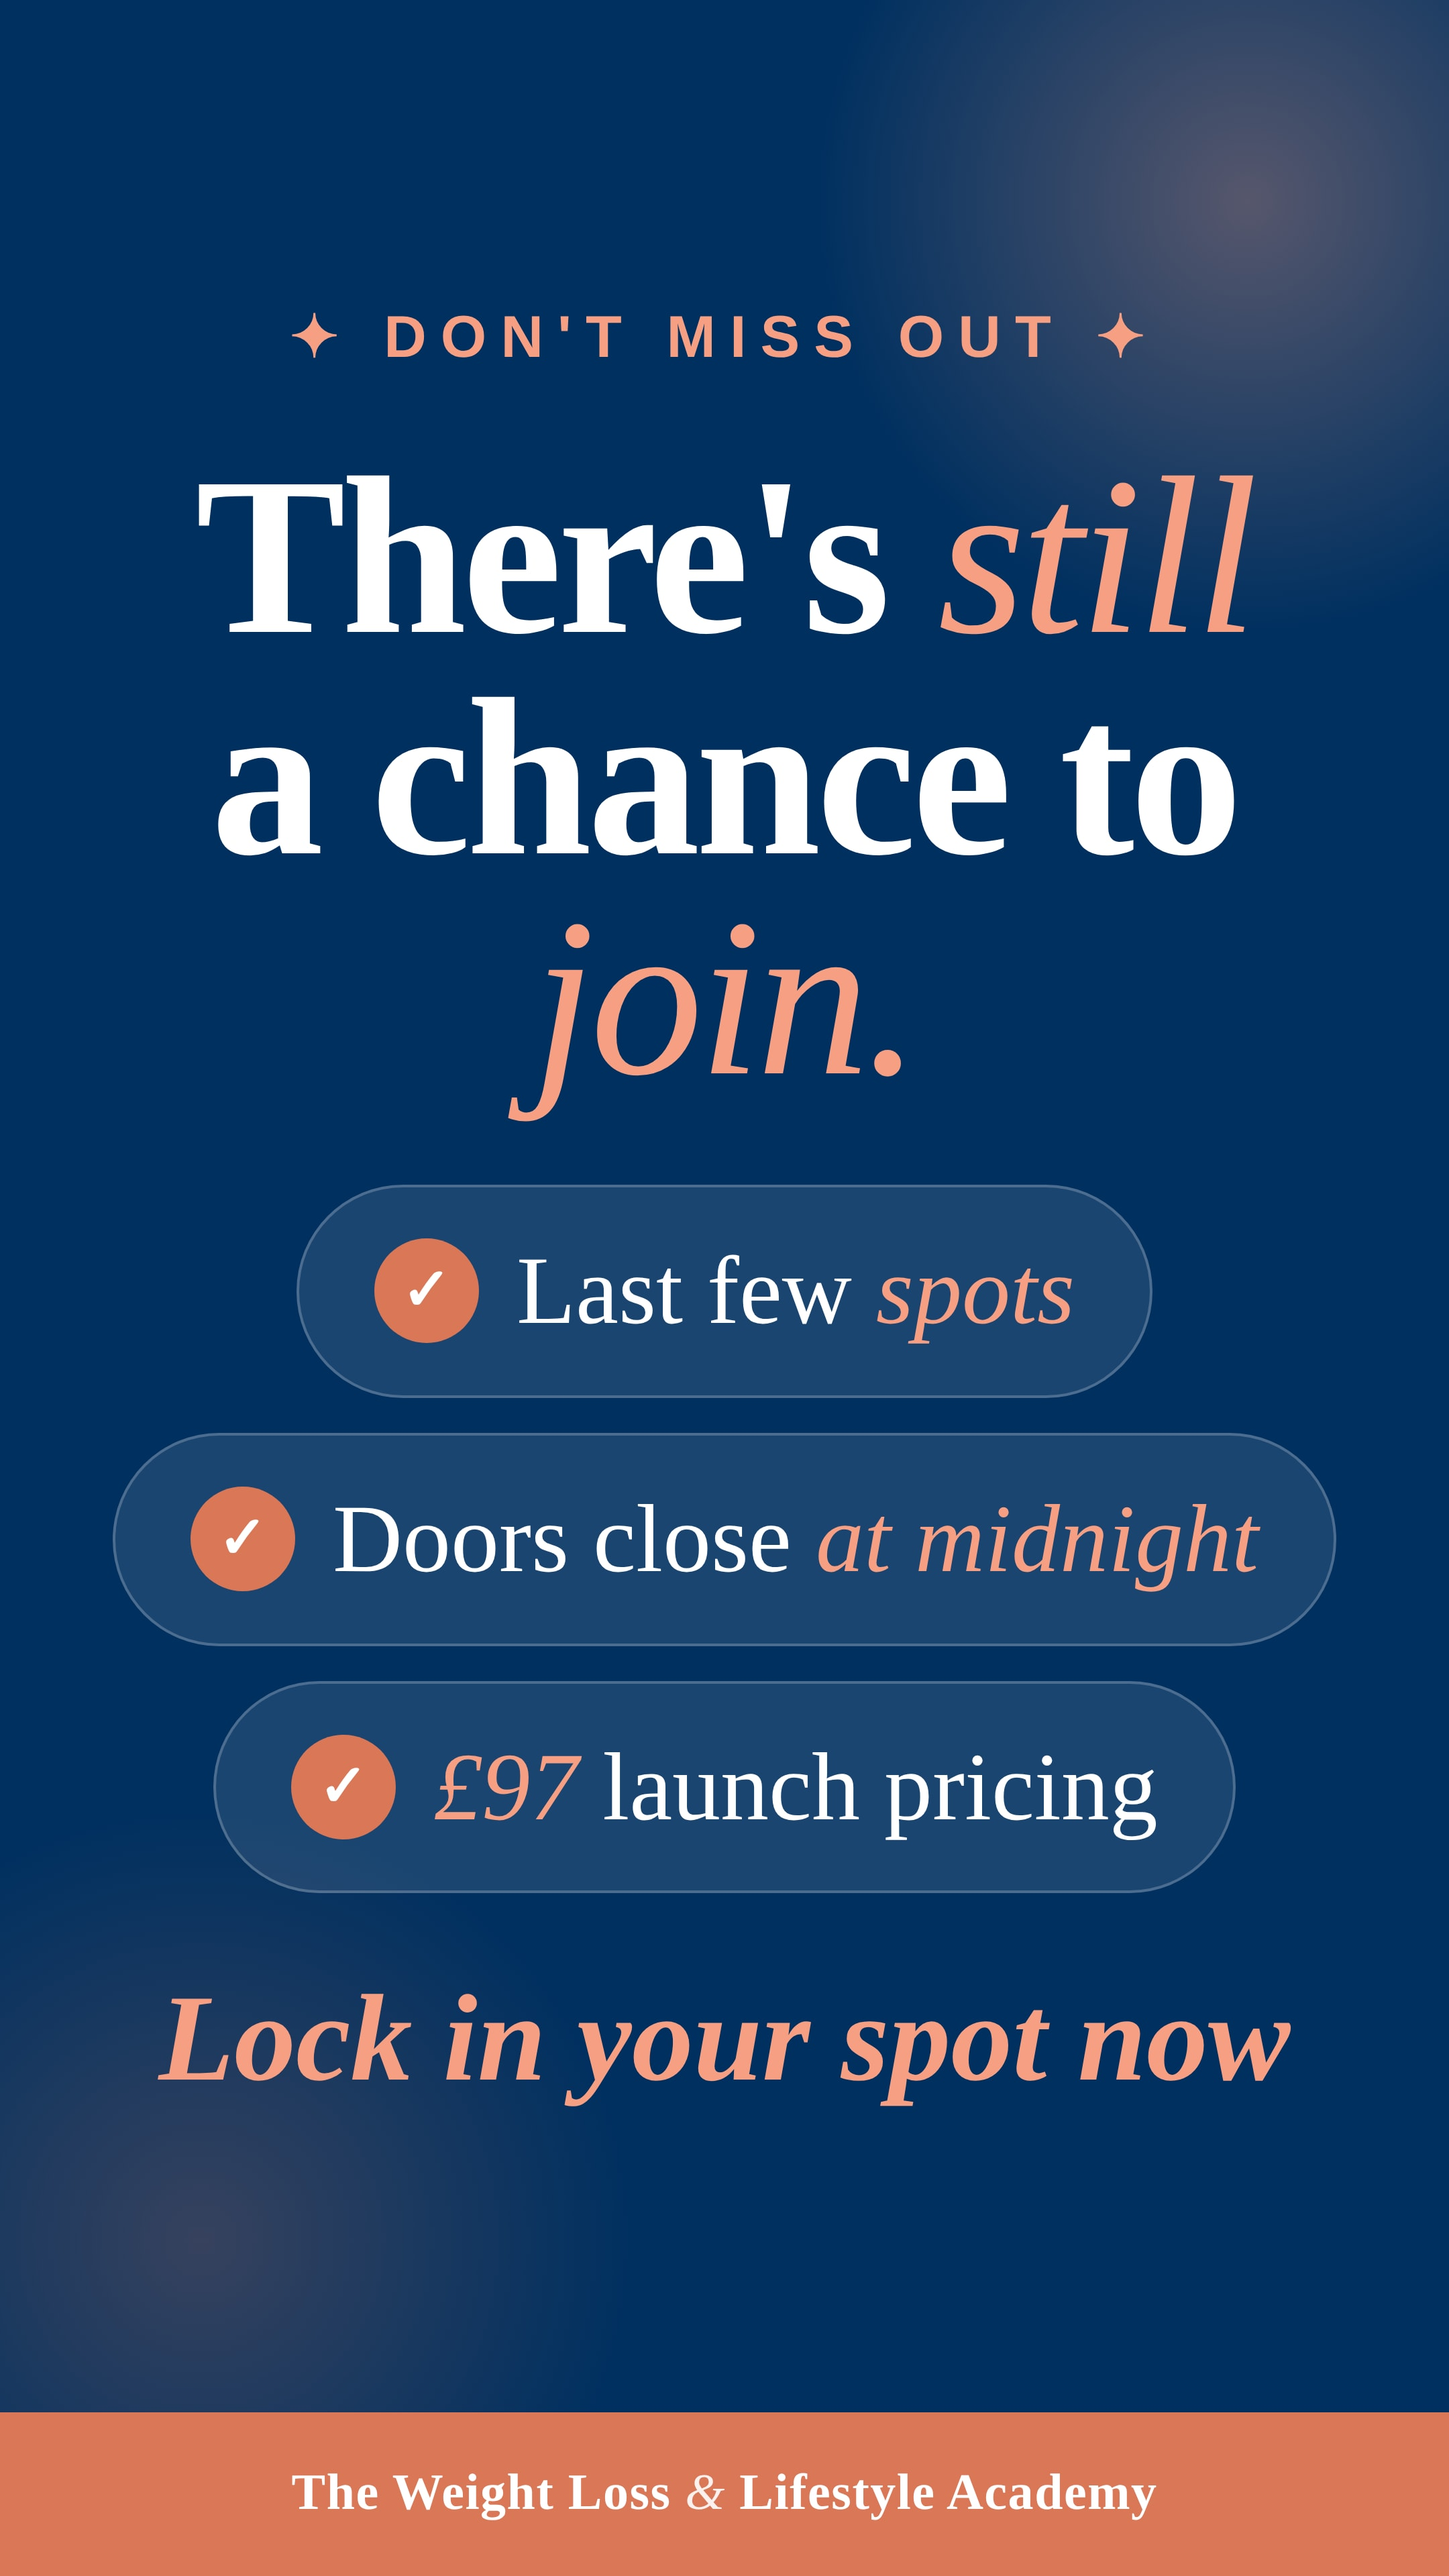
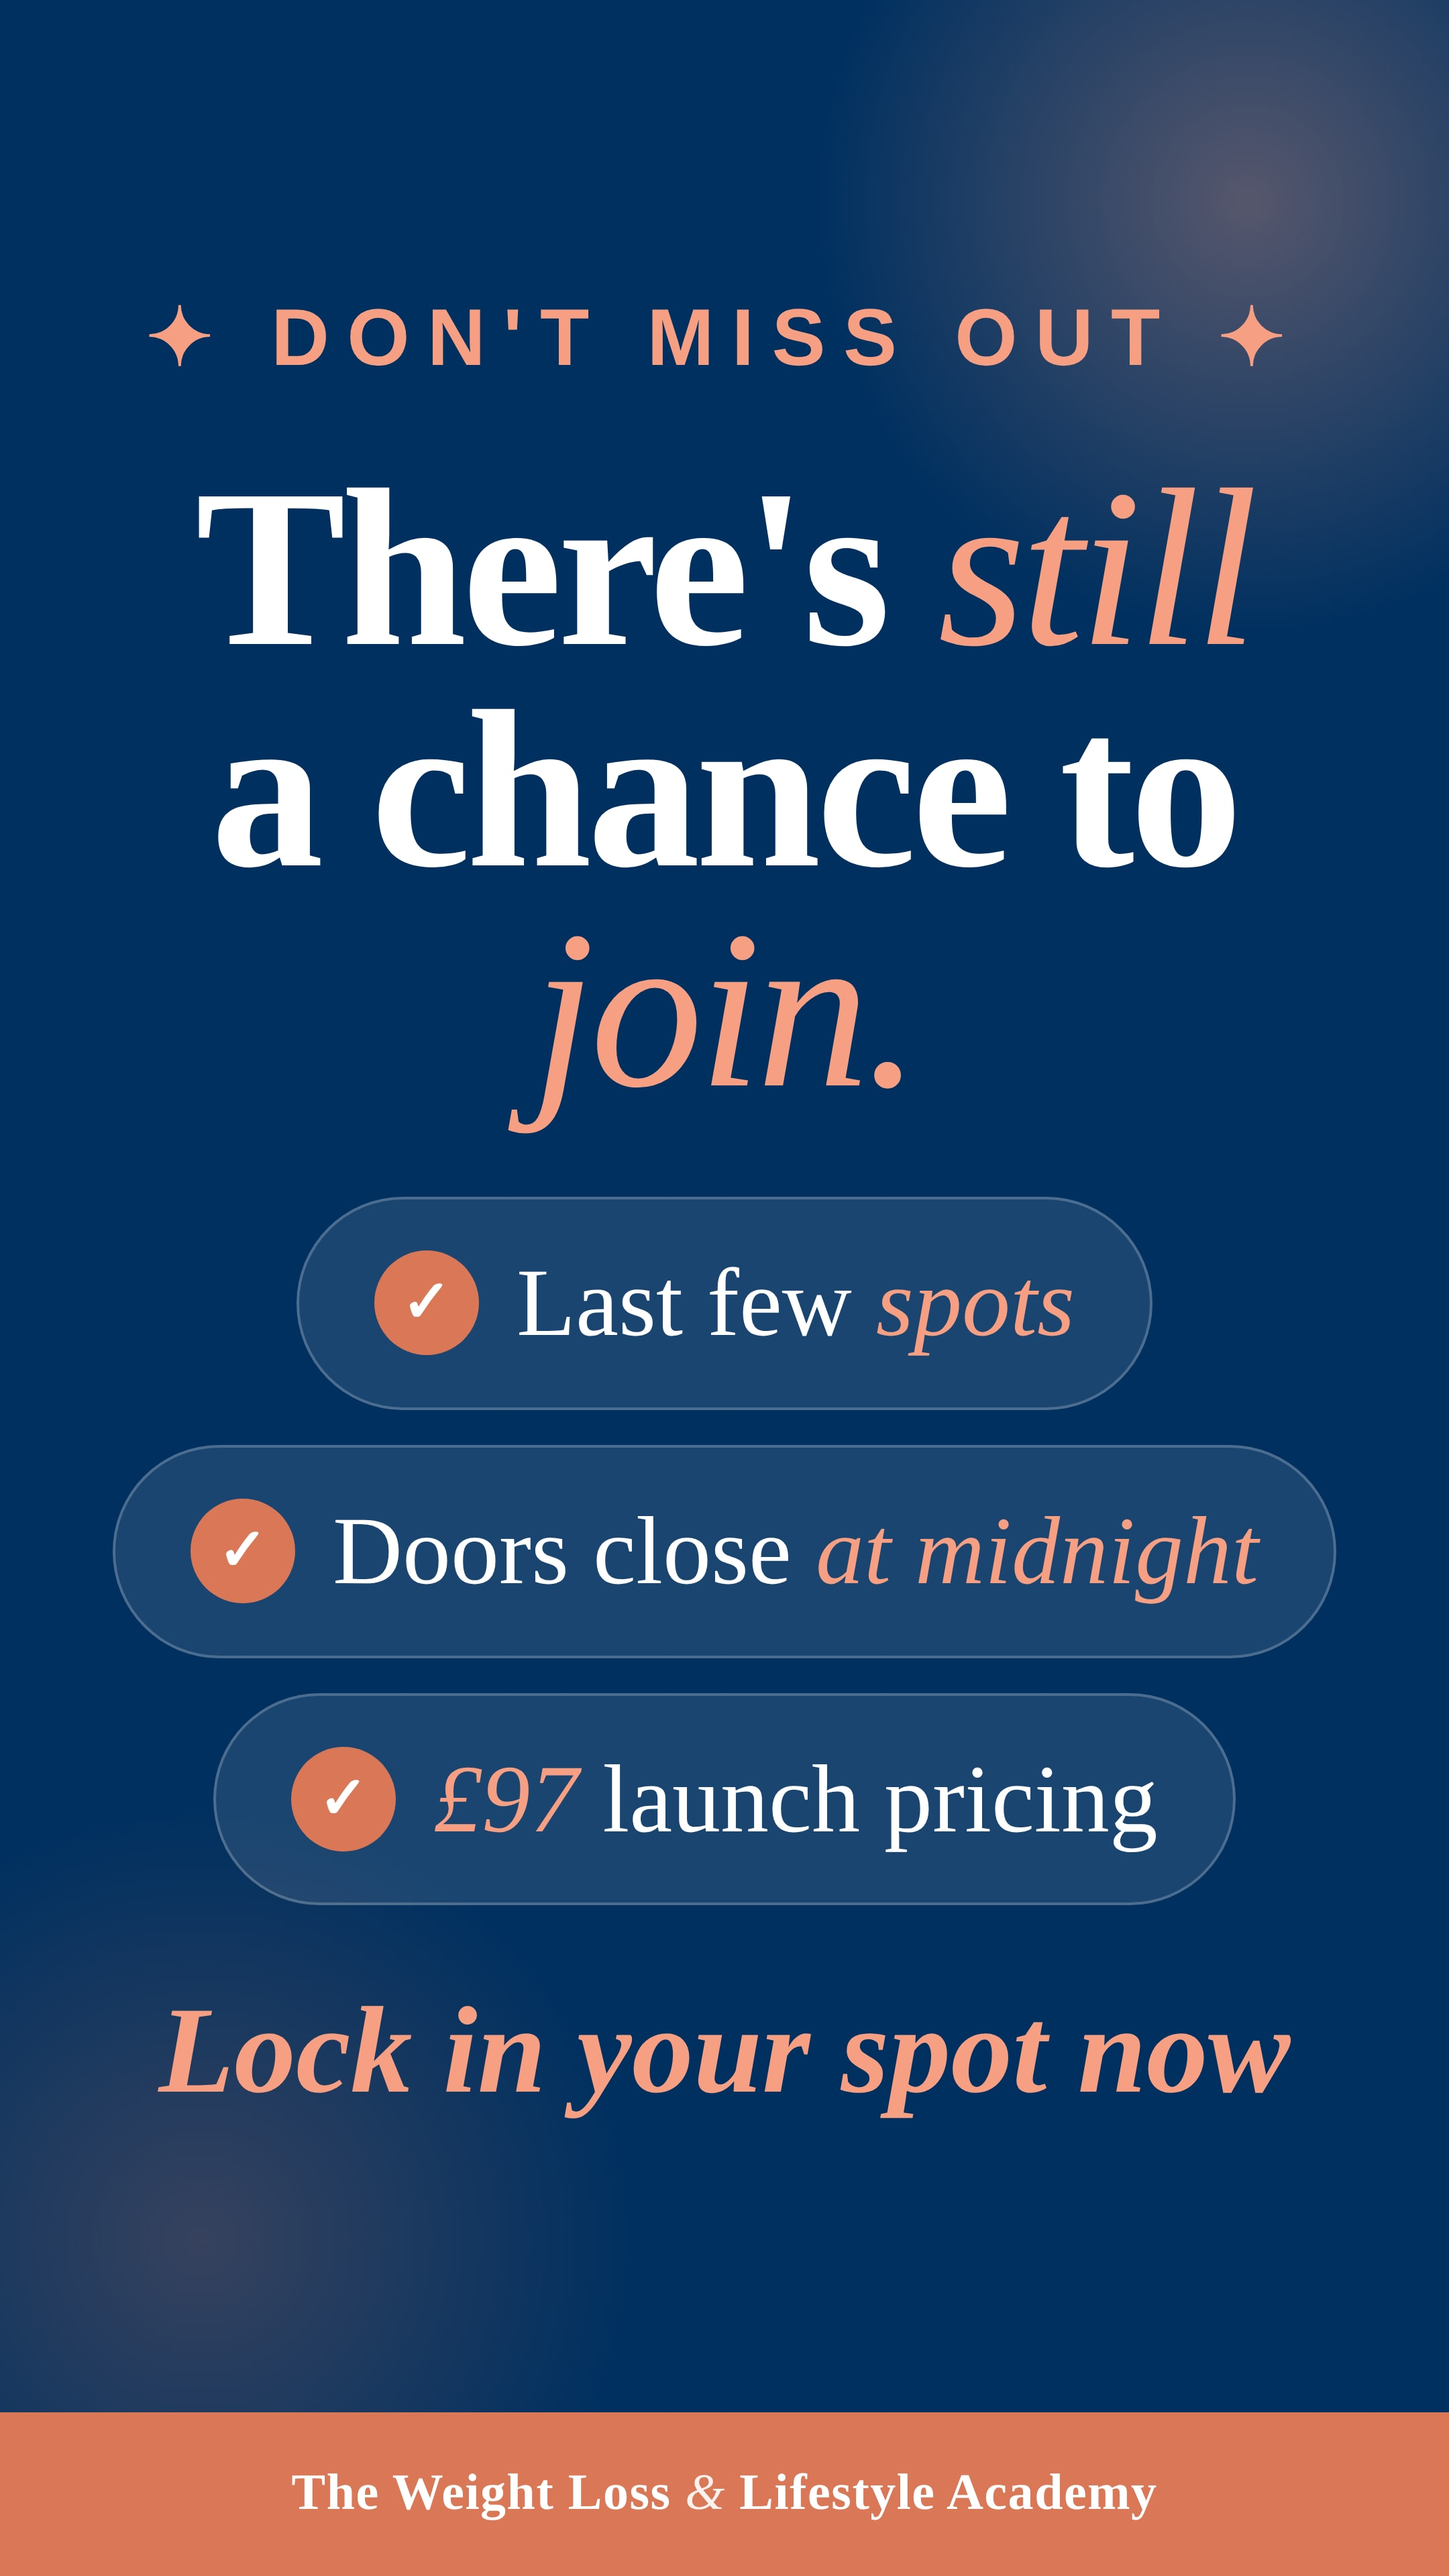
summer-challenge-stories: consistent eyebrows + story 2/4 fixes (#160)
- All 4 eyebrows now 60px with white-space: nowrap so 'The Wait Is Over', 'Filling Fast', 'Don't Miss Out', 'Summer Challenge' all sit on one line at similar size
- Story 2: 'Once they're gone, they're gone' now wraps after the comma so it reads 'Once they're gone,' / 'they're gone.'
- Story 2: 'Filling Fast' siren emojis now fit beside the text on a single line (inline-flex)
- Story 4: dashed empty sticker box replaced with a clean solid navy pill (no text) - looks intentional rather than empty

diff --git a/summer-challenge-stories/04-tap-to-join.html b/summer-challenge-stories/04-tap-to-join.html
@@ -17,7 +17,7 @@
   .ad > * { position: relative; z-index: 1; }
 
   .body { flex: 1; display: flex; flex-direction: column; padding: 90px 70px 40px; text-align: center; }
-  .eyebrow { font-family: "Alegreya Sans", sans-serif; font-weight: 800; letter-spacing: 0.22em; text-transform: uppercase; font-size: 44px; color: var(--coral); margin-bottom: 38px; }
+  .eyebrow { font-family: "Alegreya Sans", sans-serif; font-weight: 800; letter-spacing: 0.22em; text-transform: uppercase; font-size: 60px; color: var(--coral); margin-bottom: 38px; white-space: nowrap; }
   .hero { font-family: 'Libre Baskerville', serif; font-weight: 700; color: var(--navy-deep); font-size: 220px; line-height: 0.95; letter-spacing: -0.025em; margin: 0 0 38px; }
   .hero em { color: var(--coral); font-style: italic; font-weight: 500; }
   .sub-strong { font-family: 'Libre Baskerville', serif; font-style: italic; font-weight: 700; color: var(--coral); font-size: 80px; line-height: 1.2; margin: 0 0 10px; }
@@ -28,8 +28,7 @@
   .arrow { color: var(--coral); }
   .arrow svg { width: 240px; height: 280px; display: block; }
 
-  .sticker-zone { background: rgba(0,48,96,0.04); border: 3px dashed rgba(0,48,96,0.22); border-radius: 28px; height: 200px; display: flex; align-items: center; justify-content: center; margin-top: 18px; }
-  .sticker-zone .note { font-family: 'Libre Baskerville', serif; font-style: italic; font-size: 30px; color: var(--navy-deep); opacity: 0.45; }
+  .sticker-zone { align-self: stretch; background: var(--navy-deep); border-radius: 999px; height: 140px; margin: 18px 40px 0; box-shadow: 0 18px 36px -18px rgba(14,39,70,0.4); flex: none; }
 
   .brand-bar { background: var(--navy-deep); color: #fff; text-align: center; padding: 38px 30px; font-family: 'Libre Baskerville', serif; font-weight: 700; font-size: 38px; letter-spacing: 0.02em; line-height: 1.2; }
   .brand-bar em { color: var(--coral-salmon); font-style: italic; font-weight: 500; }
@@ -50,9 +49,7 @@
           <path d="M70 0 L130 0 L130 120 L185 120 L100 230 L15 120 L70 120 Z" fill="#d97757"/>
         </svg>
       </div>
-      <div class="sticker-zone">
-        <span class="note">place the IG link sticker here</span>
-      </div>
+      <div class="sticker-zone"></div>
     </div>
   </div>
   <div class="brand-bar">The Weight Loss <em>&amp;</em> Lifestyle Academy</div>

diff --git a/summer-challenge-stories/02-spots-left.html b/summer-challenge-stories/02-spots-left.html
@@ -17,7 +17,7 @@
   .ad > * { position: relative; z-index: 1; }
 
   .body { flex: 1; display: flex; flex-direction: column; justify-content: center; align-items: center; padding: 80px 70px; text-align: center; gap: 60px; }
-  .eyebrow { font-family: "Alegreya Sans", sans-serif; font-weight: 800; letter-spacing: 0.22em; text-transform: uppercase; font-size: 72px; color: var(--coral); }
+  .eyebrow { font-family: "Alegreya Sans", sans-serif; font-weight: 800; letter-spacing: 0.18em; text-transform: uppercase; font-size: 60px; color: var(--coral); white-space: nowrap; display: inline-flex; align-items: center; gap: 18px; }
   .lt { font-family: 'Libre Baskerville', serif; font-weight: 700; color: var(--navy-deep); font-size: 110px; line-height: 1.0; letter-spacing: -0.02em; margin: 0; }
   .big-num { font-family: 'Libre Baskerville', serif; color: var(--coral); font-style: italic; font-weight: 500; font-size: 360px; line-height: 0.85; margin: 0; letter-spacing: -0.04em; }
   .spots { font-family: 'Libre Baskerville', serif; font-weight: 700; color: var(--navy-deep); font-size: 110px; line-height: 1.0; margin: 0; }
@@ -33,12 +33,12 @@
 <body>
 <div class="ad">
   <div class="body">
-    <div class="eyebrow">🚨 Filling Fast 🚨</div>
+    <div class="eyebrow"><span>🚨</span><span>Filling Fast</span><span>🚨</span></div>
     <p class="lt">Less than</p>
     <p class="big-num">50</p>
     <p class="spots">spots left</p>
     <p class="close">Doors close <em>at midnight</em></p>
-    <p class="gone">Once they're gone, <em>they're gone.</em></p>
+    <p class="gone">Once they're gone,<br/><em>they're gone.</em></p>
   </div>
   <div class="brand-bar">The Weight Loss <em>&amp;</em> Lifestyle Academy</div>
 </div>

diff --git a/summer-challenge-stories/01-tomorrow.html b/summer-challenge-stories/01-tomorrow.html
@@ -17,7 +17,7 @@
   .ad > * { position: relative; z-index: 1; }
 
   .body { flex: 1; display: flex; flex-direction: column; justify-content: center; align-items: center; padding: 80px 70px; text-align: center; gap: 56px; }
-  .eyebrow { font-family: "Alegreya Sans", sans-serif; font-weight: 800; letter-spacing: 0.24em; text-transform: uppercase; font-size: 44px; color: var(--coral); }
+  .eyebrow { font-family: "Alegreya Sans", sans-serif; font-weight: 800; letter-spacing: 0.22em; text-transform: uppercase; font-size: 60px; color: var(--coral); white-space: nowrap; }
   .open { font-family: 'Libre Baskerville', serif; font-style: italic; font-weight: 700; color: var(--navy-deep); font-size: 76px; line-height: 1.1; margin: 0; }
   .hero { font-family: 'Libre Baskerville', serif; color: var(--coral); font-size: 220px; line-height: 0.95; letter-spacing: -0.03em; margin: 0; font-style: italic; font-weight: 500; }
   .sub { font-family: 'Libre Baskerville', serif; font-size: 78px; line-height: 1.1; color: var(--navy-deep); font-weight: 700; margin: 0; }

diff --git a/summer-challenge-stories/03-still-time.html b/summer-challenge-stories/03-still-time.html
@@ -18,7 +18,7 @@
   .ad > * { position: relative; z-index: 1; }
 
   .body { flex: 1; display: flex; flex-direction: column; justify-content: center; align-items: center; padding: 90px 70px; text-align: center; gap: 56px; }
-  .eyebrow { font-family: "Alegreya Sans", sans-serif; font-weight: 800; letter-spacing: 0.24em; text-transform: uppercase; font-size: 44px; color: var(--coral-salmon); }
+  .eyebrow { font-family: "Alegreya Sans", sans-serif; font-weight: 800; letter-spacing: 0.22em; text-transform: uppercase; font-size: 60px; color: var(--coral-salmon); white-space: nowrap; }
   .hero { font-family: 'Libre Baskerville', serif; font-weight: 700; color: #fff; font-size: 168px; line-height: 0.98; letter-spacing: -0.02em; margin: 0; }
   .hero em { color: var(--coral-salmon); font-style: italic; font-weight: 500; }
   .pill-row { display: flex; flex-direction: column; gap: 26px; width: 100%; align-items: center; }
